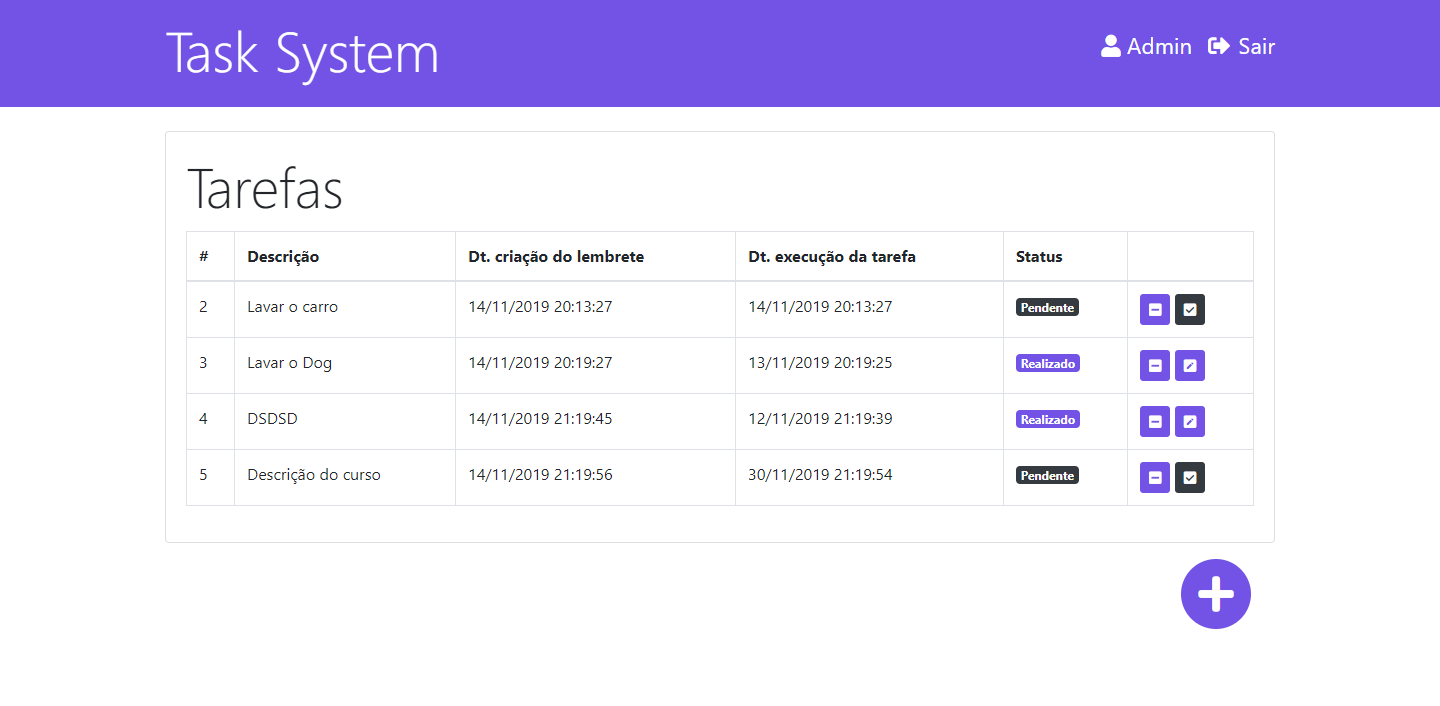
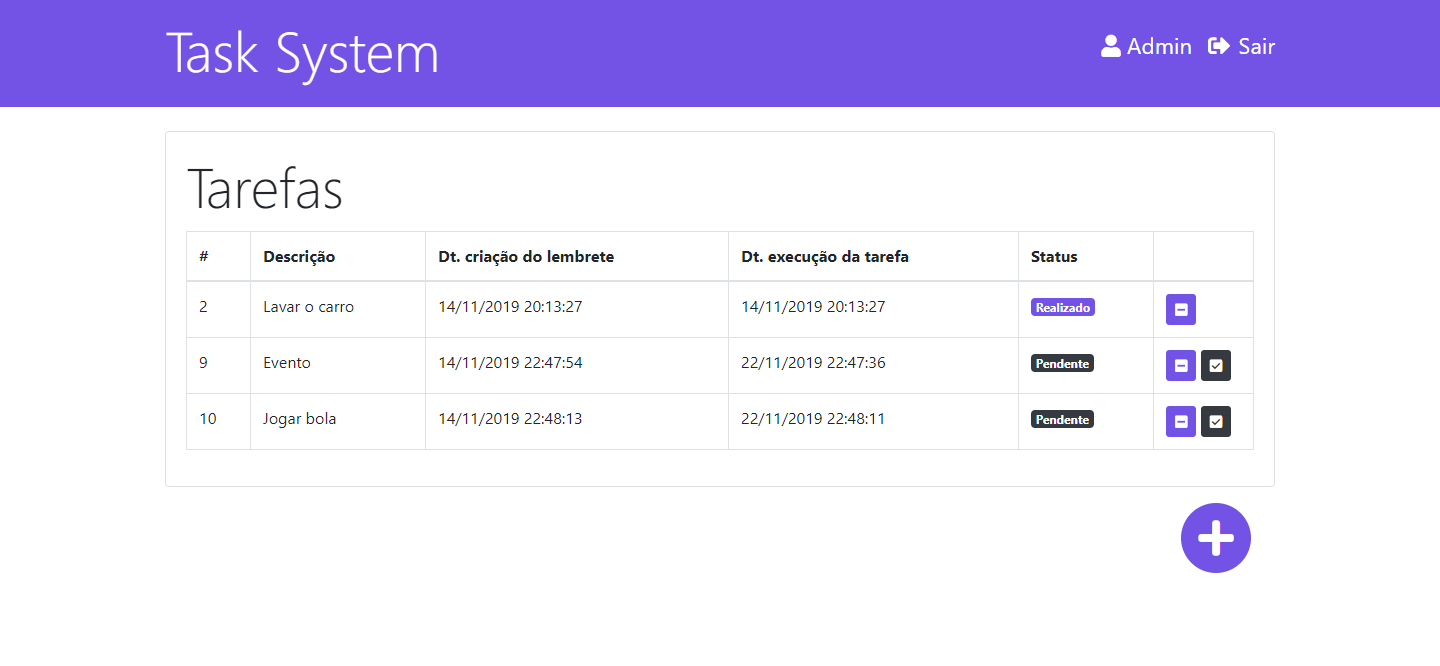
Refatorado readme e funcionalidade de alterar o status

diff --git a/public/js/task.js b/public/js/task.js
@@ -223,10 +223,9 @@ function montarTable(tasks) {
 
       let status = (task.status) ? 'Realizado' : 'Pendente';
       let classStatus = (task.status) ? 'bg-purple' : 'bg-dark';
-      let classIcon   = (task.status) ? 'fa fa-pen-square' :'fa fa-check-square';
       let data_execucao = moment(task.data_execucao).format("DD/MM/YYYY HH:mm:ss");
       let data_criacao = moment(task.data_criacao).format("DD/MM/YYYY HH:mm:ss");
-
+      let displayButtonStatus = (task.status) ? 'd-none' : '';
 
       $('#tasks').append(`
           <tr data-row=${task.id}>
@@ -235,9 +234,9 @@ function montarTable(tasks) {
           <td> ${data_criacao}</td>
           <td> ${data_execucao}</td>
           <td><span class="badge text-white ${classStatus}"> ${status}</span></td>
-          <td>
+          <td class="width-td">
               <button type="button" class="btn btn-sm bg-purple text-white btn-delete" data-id=${task.id}><i class="fa fa-minus-square"></i></button>
-              <button type="button" class="btn btn-sm ${classStatus} text-white btn-check"  data-id=${task.id}><i class="${classIcon}"></i></button>
+              <button type="button" class="btn btn-sm ${classStatus} ${displayButtonStatus} text-white btn-check"  data-id=${task.id}><i class="fa fa-check-square"></i></button>
           </td>
           </tr>
       `);

diff --git a/resources/js/task.js b/resources/js/task.js
@@ -223,10 +223,9 @@ function montarTable(tasks) {
 
       let status = (task.status) ? 'Realizado' : 'Pendente';
       let classStatus = (task.status) ? 'bg-purple' : 'bg-dark';
-      let classIcon   = (task.status) ? 'fa fa-pen-square' :'fa fa-check-square';
       let data_execucao = moment(task.data_execucao).format("DD/MM/YYYY HH:mm:ss");
       let data_criacao = moment(task.data_criacao).format("DD/MM/YYYY HH:mm:ss");
-
+      let displayButtonStatus = (task.status) ? 'd-none' : '';
 
       $('#tasks').append(`
           <tr data-row=${task.id}>
@@ -235,9 +234,9 @@ function montarTable(tasks) {
           <td> ${data_criacao}</td>
           <td> ${data_execucao}</td>
           <td><span class="badge text-white ${classStatus}"> ${status}</span></td>
-          <td>
+          <td class="width-td">
               <button type="button" class="btn btn-sm bg-purple text-white btn-delete" data-id=${task.id}><i class="fa fa-minus-square"></i></button>
-              <button type="button" class="btn btn-sm ${classStatus} text-white btn-check"  data-id=${task.id}><i class="${classIcon}"></i></button>
+              <button type="button" class="btn btn-sm ${classStatus} ${displayButtonStatus} text-white btn-check"  data-id=${task.id}><i class="fa fa-check-square"></i></button>
           </td>
           </tr>
       `);

diff --git a/public/css/custom.css b/public/css/custom.css
@@ -50,3 +50,7 @@
 .text-username {
   text-transform: capitalize;
 }
+
+.width-td {
+  width: 100px;
+}

diff --git a/resources/css/custom.css b/resources/css/custom.css
@@ -50,3 +50,7 @@
 .text-username {
   text-transform: capitalize;
 }
+
+.width-td {
+  width: 100px;
+}

diff --git a/app/Http/Controllers/TaskController.php b/app/Http/Controllers/TaskController.php
@@ -77,16 +77,15 @@ class TaskController extends Controller
     }   
 
     /**
-     * Responsável por atualizar a tarefa
+     * Responsável por marcar a tarefa como realizada
      * Retorna um json em caso de sucesso ou falha
      * @param int $id
      */
     public function update(int $id)
     {
         $task = Task::findOrFail($id);
-        $status = (int) !$task->status;
         if (is_int($id) || is_numeric($id)) {
-            $task->status = $status;
+            $task->status = 1;
 
             return ($task->save()) ? 
                 response()->json([ 'sucesso' => TRUE ]) : 
